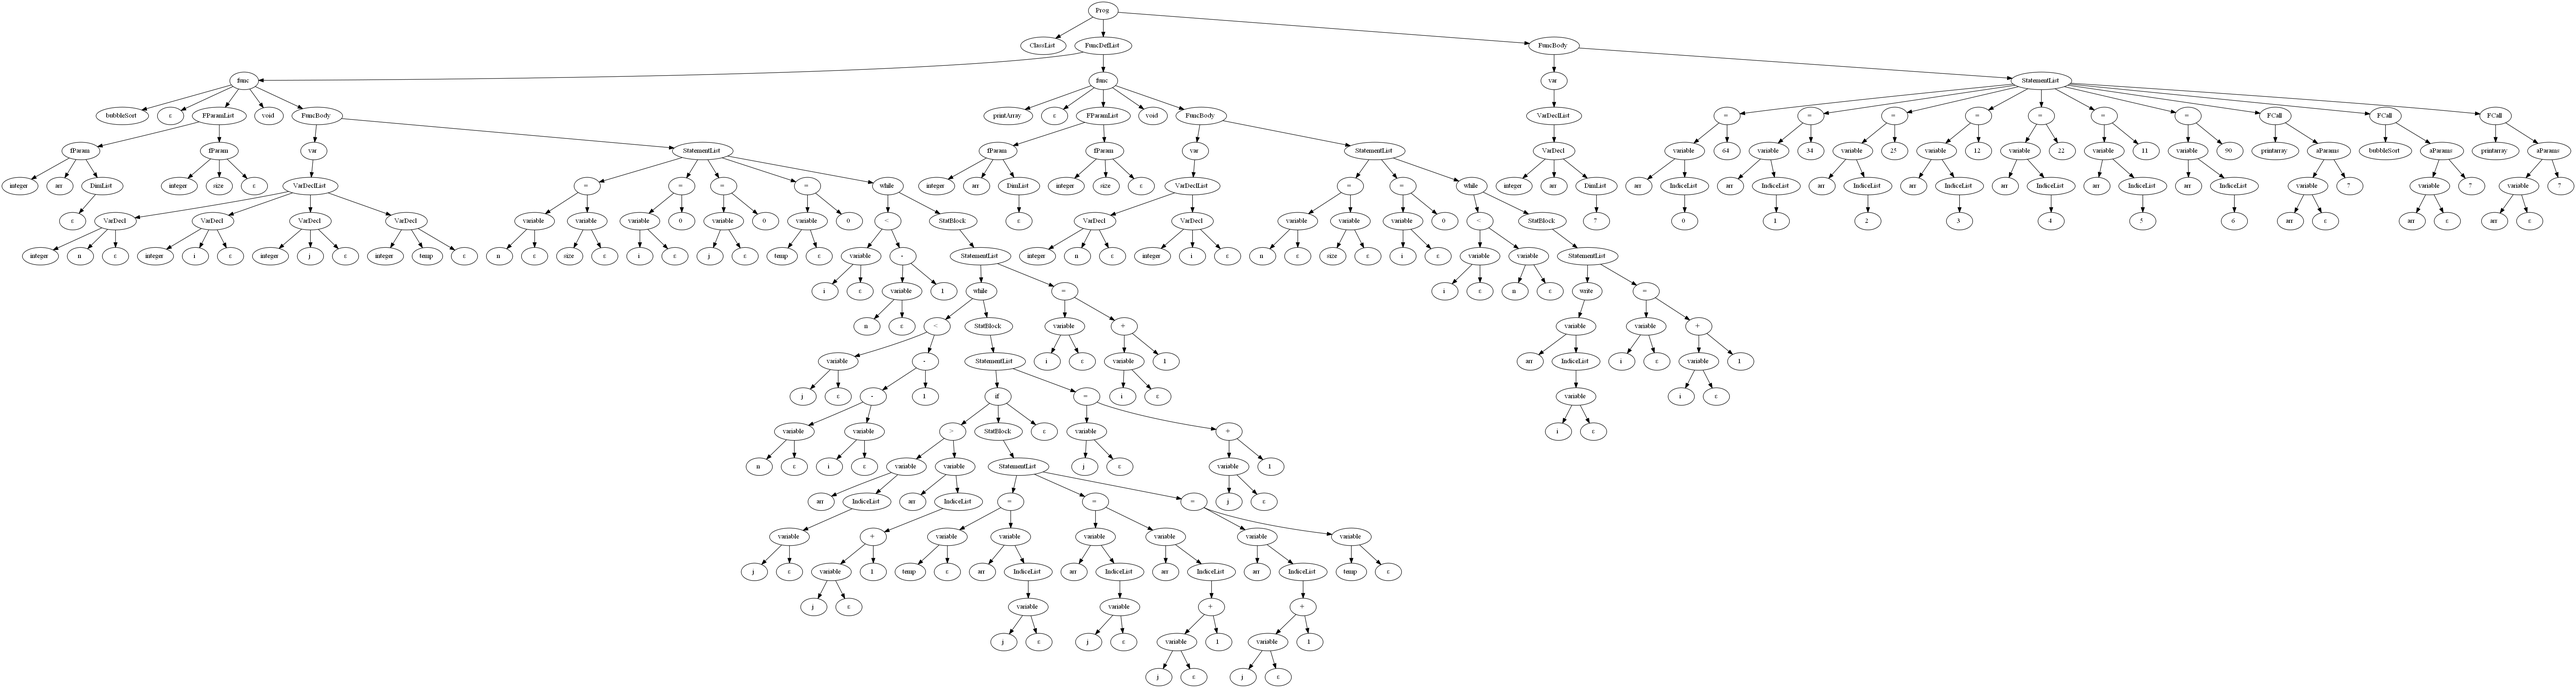
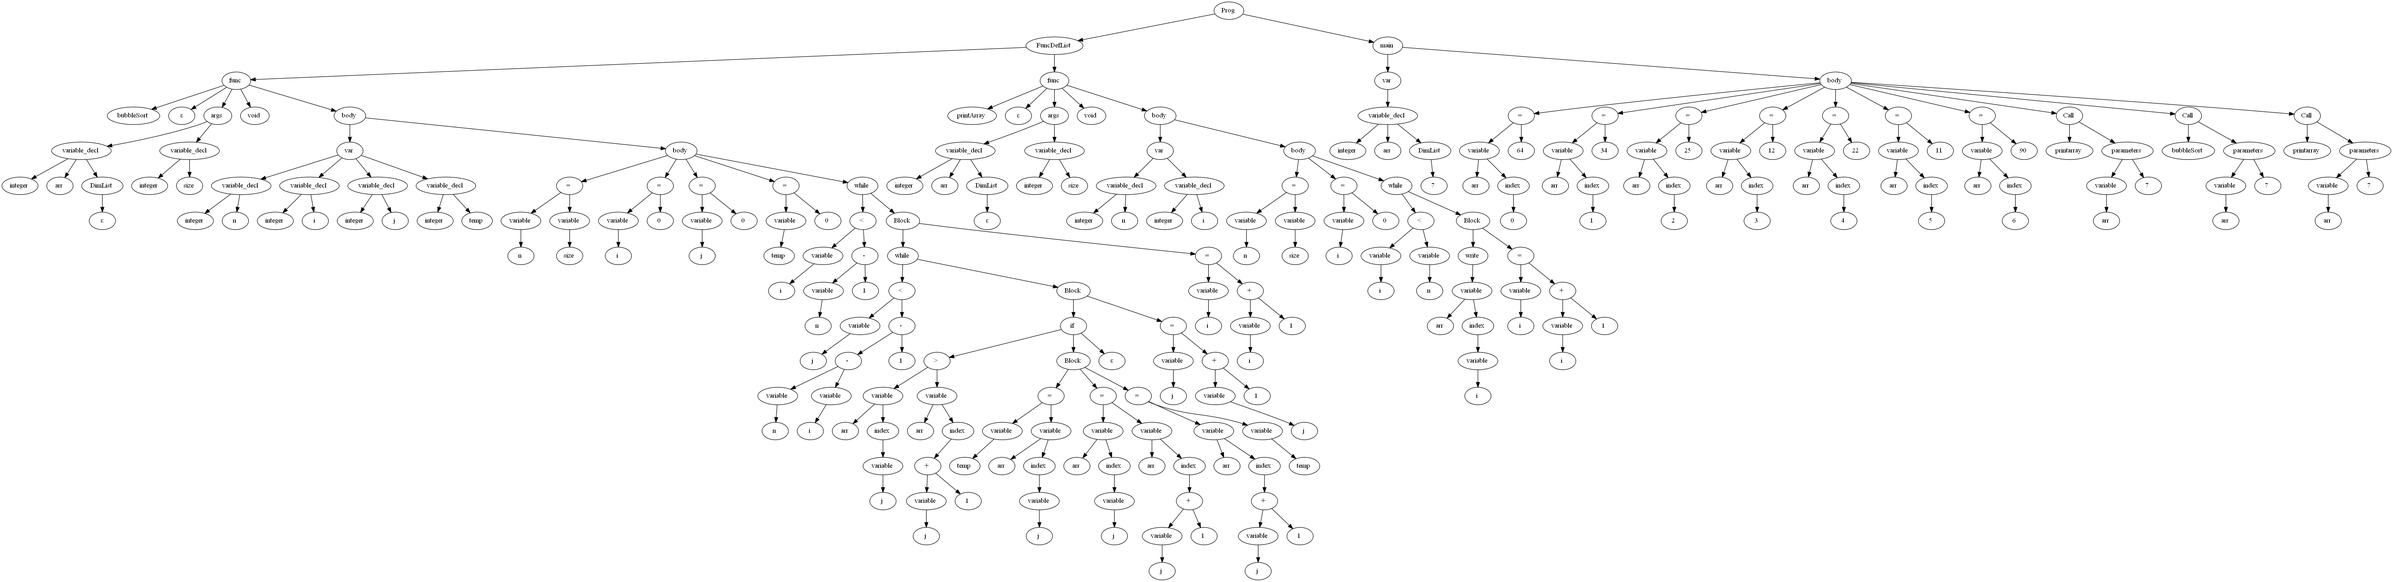
added shift op but may revert

diff --git a/src/symantecdriver.py b/src/symantecdriver.py
@@ -1,0 +1,89 @@
+import uuid
+
+import pandas as pd
+
+from _config import CONFIG
+from lex import Scanner
+from syntax import Parser, AST, Node
+
+EXAMPLE = '../examples/syntax/polynomial.src'
+
+INJECTIONS = {
+    'aParams',
+    'ClassList',
+    'DataMember',
+    'DimList',
+    'Factor',
+    'FCall',
+    'fParam',
+    'FParamList',
+    'IndiceList',
+    'MembList',
+    'Prog',
+    'StatBlock',
+    'StatementList',
+    'variable',
+    'VarDecl',
+    'FuncDefList',
+    'VarDeclList',
+    'FuncBody'
+}
+
+labels = ('name', 'kind', 'type', 'visibility', 'link')
+new_label = ('kind', 'type', 'visibility', 'link')
+
+
+class Table:
+    def __init__(self):
+        self.name = ''
+        self.uuid = uuid.uuid4()
+        self.inheritance = []
+        self.table = pd.DataFrame(columns=['kind', 'type', 'visibility', 'link'])
+
+
+def Class(node: Node):
+    name = node.children[0].label
+
+
+def func_decl(node: Node):
+    name = node.children[0].label
+    return_type = node.children[-1].label
+
+    frame = pd.DataFrame(columns=['kind', 'signature'])
+    if len(node.children) == 3:
+
+        for argument in node.children[1].children:
+            if argument.label == 'variable_decl':
+                frame.append(variable_decl(argument))
+
+
+def variable_decl(node: Node):
+    signature = node.children[0].label
+    name = node.children[1].label
+    if len(node.children) == 3:
+        signature += index(node.children[2])
+
+    return pd.Series(data=['parameter', signature], index=['kind', 'signature'], name=name)
+
+
+def index(node: Node):
+    return '[' + ']['.join(x.label for x in node.children) + ']'
+
+
+_OPS = {
+    'declaration': declaration,
+    'func': func,
+    'variable_decl': variable_decl,
+    'dimensions': dimensions
+}
+
+if __name__ == '__main__':
+    scanner = Scanner.load(EXAMPLE, suppress_comments=1)
+    syntax_analyzer = Parser.load()
+    response = syntax_analyzer.parse(scanner)
+    ast = syntax_analyzer.ast
+
+    cols = ('name', 'kind', 'type', 'link')
+    table = pd.DataFrame(columns=cols)
+    table = table.append({'name': 1, 'type': 0, 'kind': 3, 'link': 0}, ignore_index=True)
+    print(table)

diff --git a/src/syntax/parser.py b/src/syntax/parser.py
@@ -15,8 +15,19 @@ def _push(parser):
     parser.nodes.append(Node(parser.last_production.lexeme))
 
 
-def _pop(parser):
-    parser.nodes.pop()
+def _iunary(parser):
+    second = parser.nodes.pop()
+    first = parser.nodes.pop()
+
+    second.adopt(first)
+    parser.nodes.append(second)
+
+
+def _epop(parser):
+    parent = parser.nodes[-1]
+    child = parent.children[-1]
+    if child.label == 'ε':
+        parent.children.pop()
 
 
 def _unary(parser):
@@ -32,8 +43,25 @@ def _chk(parser):
         parser.nodes[-1].label = 'ε'
 
 
+def _chk_merge(parser):
+    parent = parser.nodes[-1]
+    children = parent.children
+    if len(children) == 1:
+        child = children[0]
+        parser.nodes.pop()
+        child.parent = None
+        parser.nodes.append(child)
+
+
 def _nop(parser):
     parser.nodes.append(Node('ε'))
+
+
+def _cond_unary(parser):
+    if parser.nodes[-1].label == 'ε':
+        parser.nodes.pop()
+    else:
+        _unary(parser)
 
 
 def _bin(parser):
@@ -45,6 +73,11 @@ def _bin(parser):
     parser.nodes.append(op)
 
 
+def _shift(parser):
+    node = parser.nodes[-1]
+    node.children = [node.children[-1]] + node.children[:-1]
+
+
 def _epsilon(parser):
     pass
 
@@ -52,11 +85,15 @@ def _epsilon(parser):
 _OPS = {
     'NEW': _new,
     'PUSH': _push,
-    'POP': _pop,
+    'EPOP': _epop,
     'UNARY': _unary,
     'CHK': _chk,
     'NOP': _nop,
     'BIN': _bin,
+    'COND_UNARY': _cond_unary,
+    'IUNARY': _iunary,
+    'CHK_MERGE': _chk_merge,
+    'SHIFT': _shift,
     'ε': _epsilon
 }
 

diff --git a/tests/test_grammar.py b/tests/test_grammar.py
@@ -17,12 +17,12 @@ s = Scanner.load(suppress_comments=1)
 def _run(file):
     s.open(file)
     resp = f.parse(s)
-    """
-    path = Path(file)
-    path = str(path.parent) + '\\out\\' + str(path.stem) + '.png'
-    if f.ast:
-        f.ast.render(path)
-    """
+
+    # path = Path(file)
+    # path = str(path.parent) + '\\out\\' + str(path.stem) + '.png'
+    # if f.ast:
+    #     f.ast.render(path)
+
     return resp
 
 

diff --git a/src/symantec/symantec.py b/src/symantec/symantec.py
@@ -73,3 +73,19 @@ import pandas as pd
 
 from syntax import AST
 
+
+class SymbolTable:
+    def __init__(self):
+        pass
+
+    def insert(self, record):
+        pass
+
+    def search(self, record):
+        pass
+
+    def print(self):
+        pass
+
+    def delete(self, record):
+        pass

diff --git a/src/syntaxdriver.py b/src/syntaxdriver.py
@@ -9,7 +9,7 @@ from lex import *
 OUT_AST = '.outast.png'
 OUT_ERRORS = '.outerrors.log'
 OUT_DERIVATIONS = '.outderivations.log'
-EXAMPLE = '../examples/syntax/polynomial.src'
+EXAMPLE = '../examples/syntax/polynomial_correct.src'
 
 
 def help(exception: Exception = None):

diff --git a/src/syntax/ast.py b/src/syntax/ast.py
@@ -23,6 +23,7 @@ class AST:
             label = node.label
             if label != 'ε':
                 label += ' '
+
             nodes[node.uid] = pydot.Node(node.uid, label=str(label))
             graph.add_node(nodes[node.uid])
 

diff --git a/src/_config/__init__.py b/src/_config/__init__.py
@@ -6,4 +6,7 @@ CONFIG = {
     'LL1_FILE': Path('./_config/ll1.bak.xz'),
     'VITALS_FILE': Path('./_config/vitals.bak.xz'),
     'GRAMMAR_FILE': Path('./_config/grammar.conf'),
+    'EPSILON': 'ε'
 }
+
+
